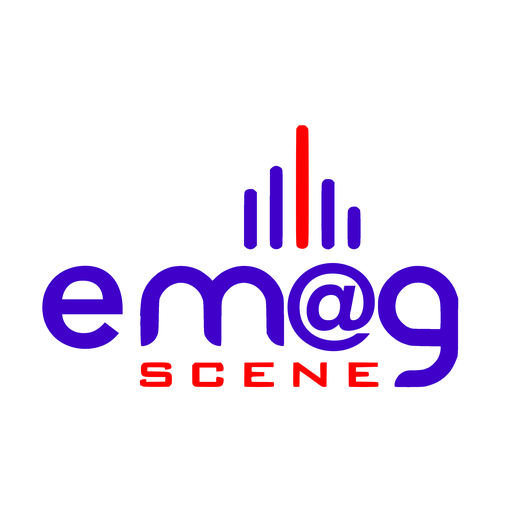
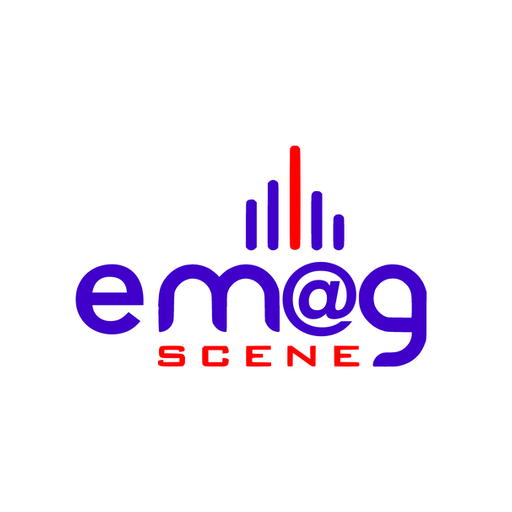
fix: icônes PWA maskable avec padding pour écran d'accueil smartphone
- Créer icônes maskable dédiées (logo 60%, padding 20%) avec fond #1e3a5f
- Icônes standard mises à jour avec 8% de padding
- Manifest: séparer icônes standard et maskable (192+512 chacune)
- Script gen-pwa-icons.py pour régénération
- SW cache v12

Changed region(s): [[0.0625, 0.25, 0.9062, 0.7812]]

diff --git a/public/sw.js b/public/sw.js
@@ -1,5 +1,5 @@
 // Service Worker eM@g — Cache stratégique
-const CACHE_NAME = 'emag-cache-v11';
+const CACHE_NAME = 'emag-cache-v12';
 const PRECACHE_URLS = [
   '/',
   '/manifest.json',

diff --git a/scripts/gen-pwa-icons.py b/scripts/gen-pwa-icons.py
@@ -1,0 +1,36 @@
+#!/usr/bin/env python3
+"""Generate PWA icons with proper padding for maskable icons."""
+import os
+from PIL import Image
+
+PUBLIC_DIR = os.path.join(os.path.dirname(__file__), '..', 'public')
+os.chdir(PUBLIC_DIR)
+
+# Save original before modifying
+src = Image.open("icon-512x512.png").convert("RGBA")
+
+# --- Maskable icons (solid background + logo at 60%) ---
+bg_color = (30, 58, 95, 255)  # theme_color #1e3a5f
+
+for size in [192, 512]:
+    canvas = Image.new("RGBA", (size, size), bg_color)
+    logo_size = int(size * 0.60)
+    logo = src.resize((logo_size, logo_size), Image.LANCZOS)
+    offset = (size - logo_size) // 2
+    canvas.paste(logo, (offset, offset), logo)
+    fname = f"icon-maskable-{size}x{size}.png"
+    canvas.save(fname)
+    print(f"Created {fname} (logo {logo_size}px, padding {offset}px = {offset/size*100:.0f}%)")
+
+# --- Standard icons (transparent bg + logo with 8% padding) ---
+for size in [192, 512]:
+    canvas = Image.new("RGBA", (size, size), (0, 0, 0, 0))
+    padding = int(size * 0.08)
+    logo_size = size - 2 * padding
+    logo = src.resize((logo_size, logo_size), Image.LANCZOS)
+    canvas.paste(logo, (padding, padding), logo)
+    fname = f"icon-{size}x{size}.png"
+    canvas.save(fname)
+    print(f"Updated {fname} (logo {logo_size}px, padding {padding}px = {padding/size*100:.0f}%)")
+
+print("Done!")
